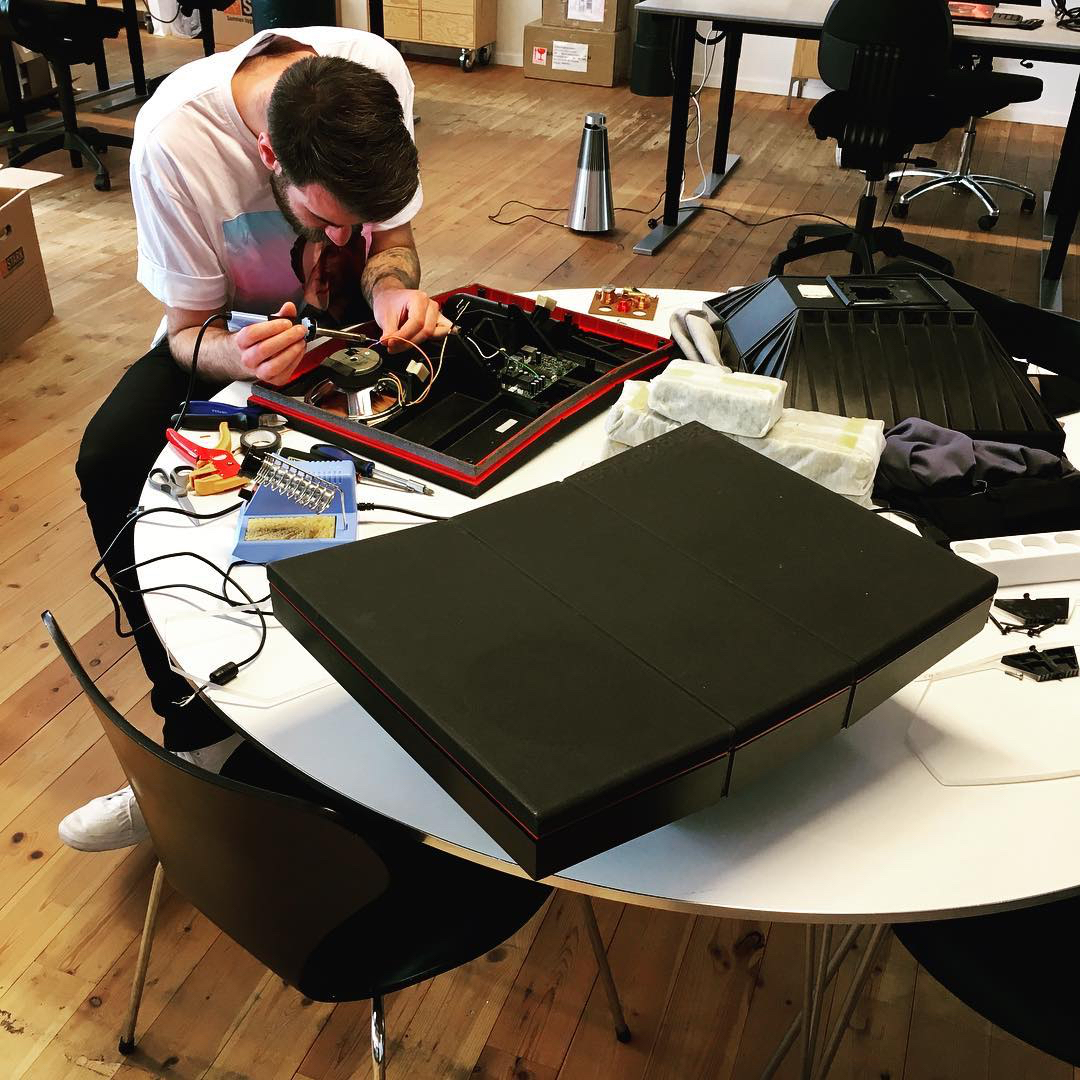
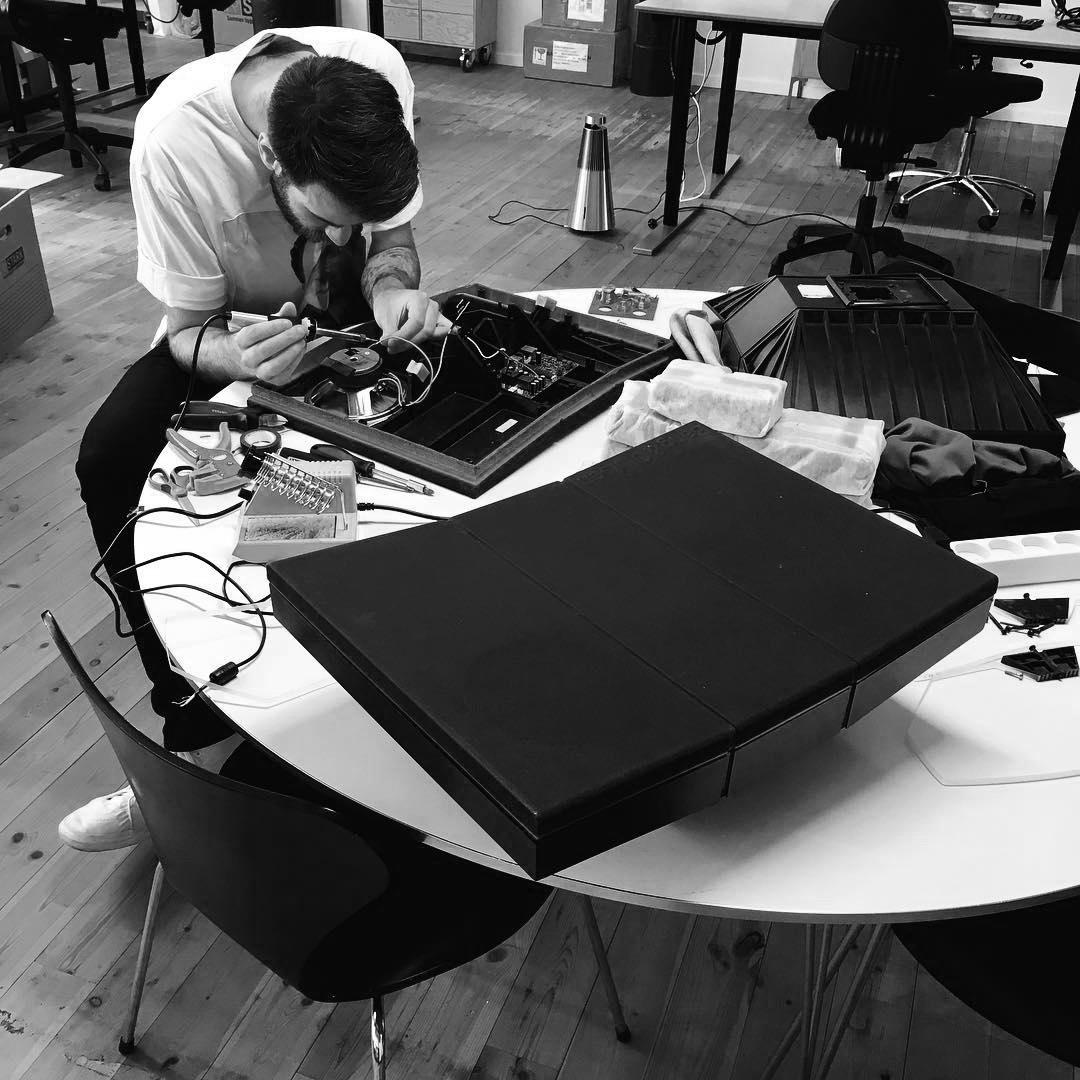
Updated home page with new color for hero image

diff --git a/app/page.tsx b/app/page.tsx
@@ -43,8 +43,8 @@ export default function Home() {
           className="object-cover"
           priority
         />
-        {/* Dark Overlay */}
-        <div className="absolute inset-0 bg-black/60" />
+        {/* Colored Overlay (Deep Indigo Example, 70% opacity) */}
+        <div className="absolute inset-0" style={{ backgroundColor: 'rgba(1, 10, 73, 0.8)' }} />
         
         {/* Content */}
         <div className="relative z-10 max-w-7xl mx-auto px-4 sm:px-6 lg:px-8 text-center">
@@ -54,12 +54,16 @@ export default function Home() {
             transition={{ duration: 0.8, delay: 0.2 }}
           >
             <h1 className="text-4xl sm:text-5xl lg:text-6xl font-bold text-white" style={{ marginBottom: '1.5rem' }}>
-              Making things people love
+              Making things people <span style={{ color: 'rgba(249, 101, 219, 0.8)' }}>love</span>
             </h1>
             <p className="text-xl text-gray-300 max-w-2xl mx-auto" style={{ marginBottom: '4rem' }}>
               <span className="sm:hidden">Copenhagen-based industrial designer</span>
               <span className="hidden sm:inline">
-                Hello! I'm Christian, an industrial designer based in Copenhagen with 10 years of experience turning ideas into real products. I take a customer-focused approach—using sketching, CAD, prototyping, and a bit of code—to make things people love. Take a look at some of my projects, and if you have any questions, feel free to send me an email. Always happy to chat!
+                <>
+                  Hello! I'm Christian, an industrial designer based in Copenhagen with 10 years of experience turning ideas into real products. I take a customer-focused approach—using sketching, CAD, prototyping, and a bit of code—to make things people love.
+                  <br /><br />
+                  Take a look at some of my projects, and if you have any questions, feel free to send me an email. Always happy to chat!
+                </>
               </span>
             </p>
             <div className="flex flex-col sm:flex-row gap-4 sm:gap-6 justify-center">
